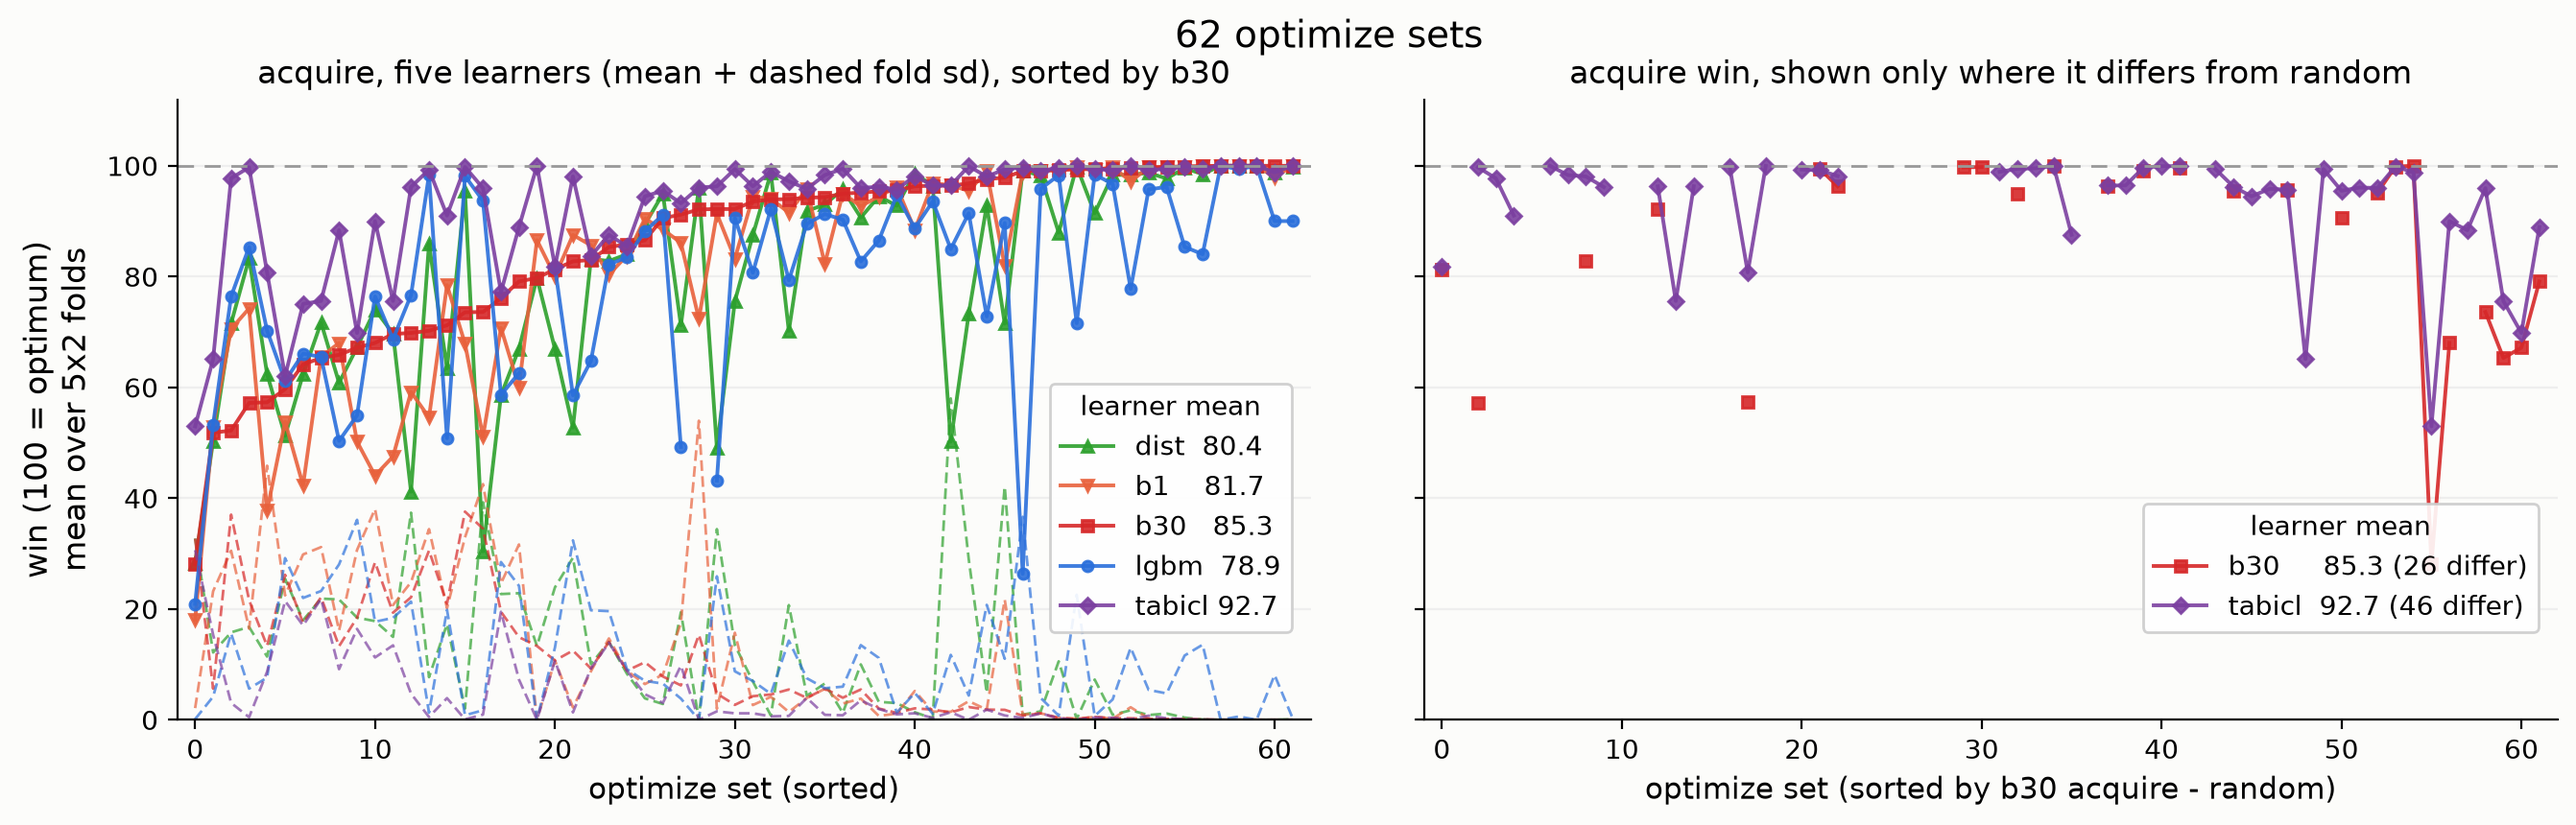
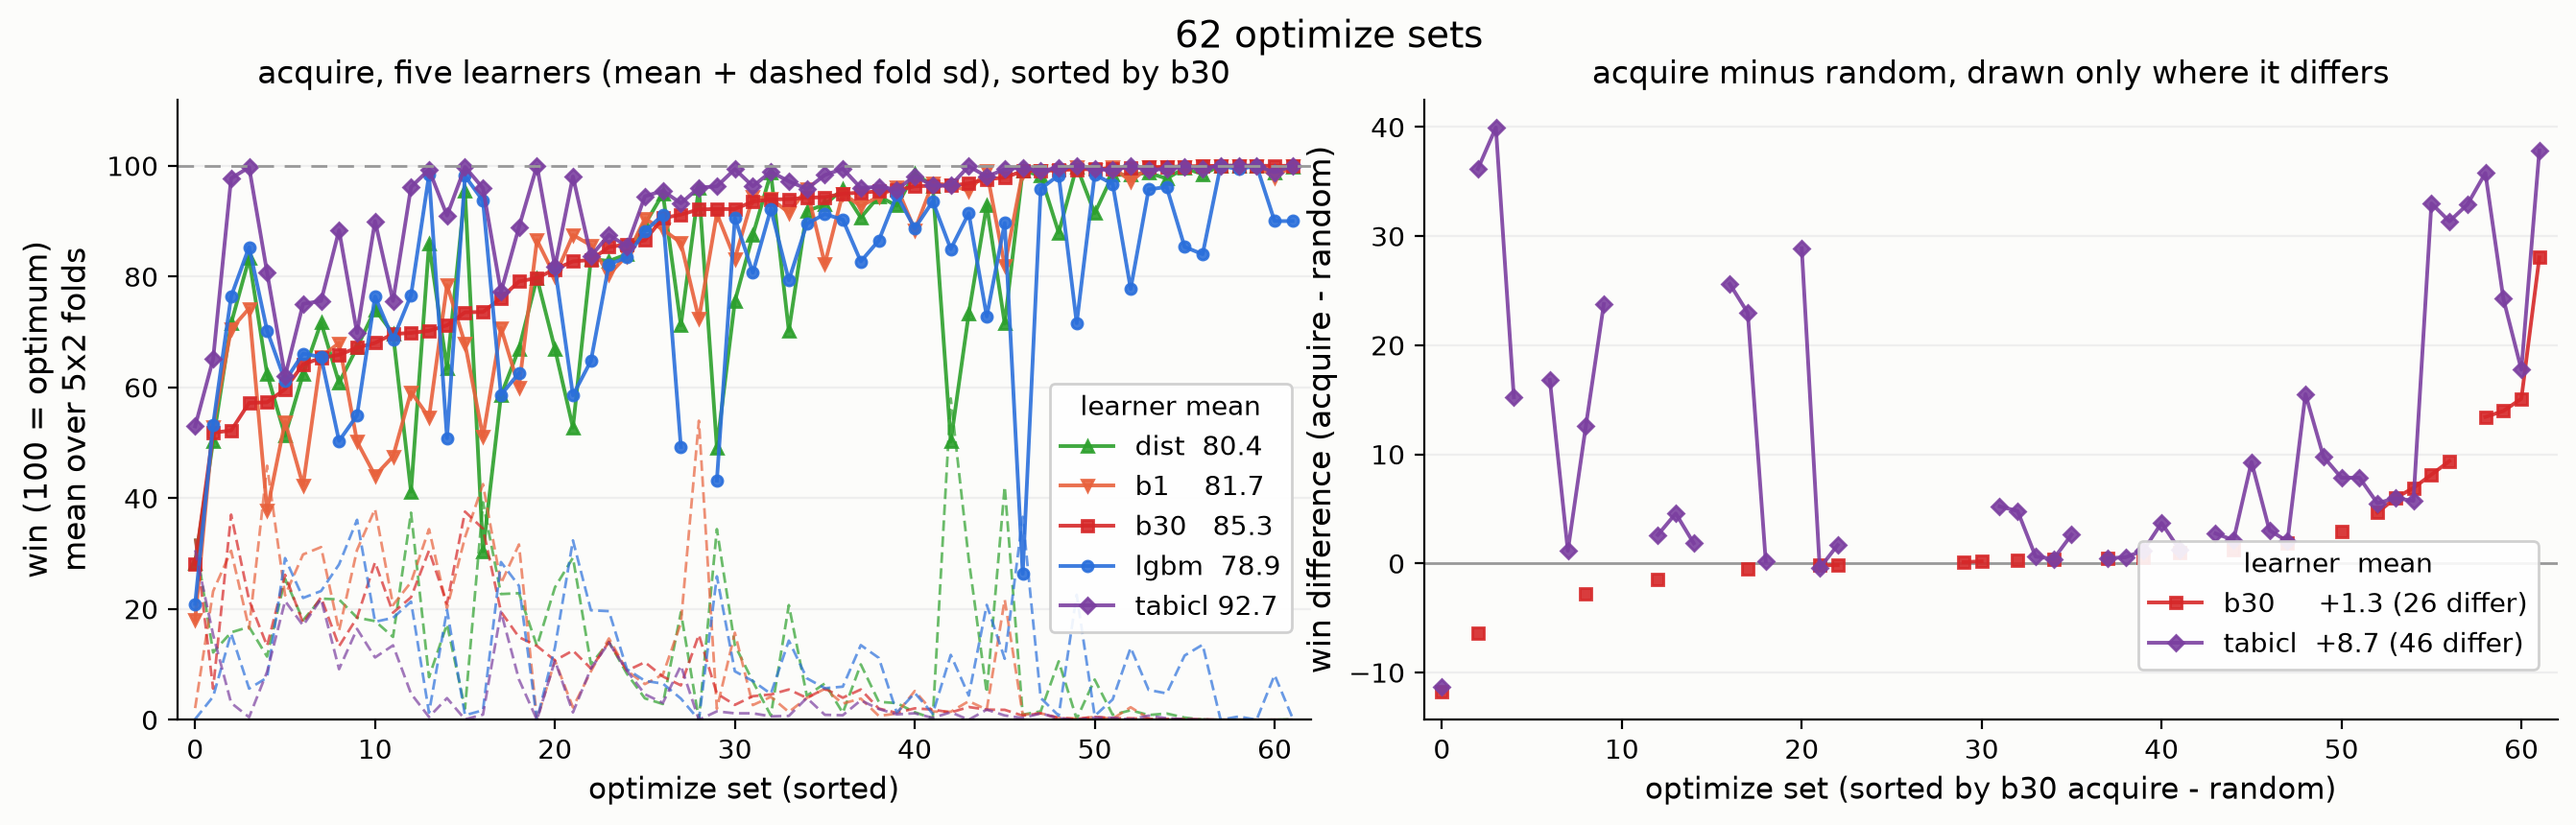
active figure: RHS back to delta form, two lines (b30+tabicl), gaps where tied to random

diff --git a/active_plot.py b/active_plot.py
@@ -85,35 +85,36 @@ ax.grid(axis="y", color="#eee")
 ax.set_ylabel("win (100 = optimum)\nmean over 5x2 folds", fontsize=12)
 ax.set_xlabel("optimize set (sorted)", fontsize=11)
 
-# -- right: b30 & tabicl acquire, only where they beat random (r.b30) ---
+# -- right: b30 & tabicl acquire minus random, gaps where tied ----------
 bx = fig.add_subplot(gs[1])
 gap = {s: mu.get((s, "a.b30"), 0) - mu.get((s, "r.b30"), 0) for s in sets}
 order2 = sorted(sets, key=gap.get)
 x2 = np.arange(len(order2))
-def diffline(arm):                                 # win, masked where tied
+def deltaline(arm):                                # a.arm - r.b30, nan if tied
   out = []
   for s in order2:
     k, rk = (s, arm), (s, "r.b30")
     if k in F and rk in F and not same(F[k], F[rk]):
-      out.append(mu[k])
+      out.append(mu[k] - mu[rk])
     else:
       out.append(np.nan)
   return out
+bx.axhline(0, color="#999", lw=1)
 for arm, c, m, lab in (("a.b30", "#d62728", "s", "b30"),
                        ("a.tabicl", "#7b3fa0", "D", "tabicl")):
   n = sum(1 for s in order2 if (s, arm) in F and (s, "r.b30") in F
           and not same(F[(s, arm)], F[(s, "r.b30")]))
-  bx.plot(x2, diffline(arm), color=c, marker=m, ms=4, lw=1.4, alpha=.9,
-          label="%-7s %4.1f (%d differ)" % (lab, grand[arm], n))
-bx.set_ylim(0, 112); bx.set_xlim(-1, len(order2))
-bx.axhline(100, color="#999", lw=1, ls=(0, (6, 4)))
-bx.set_title("acquire win, shown only where it differs from random",
+  bx.plot(x2, deltaline(arm), color=c, marker=m, ms=4, lw=1.4, alpha=.9,
+          label="%-7s %+4.1f (%d differ)" % (
+          lab, grand[arm] - grand["r.b30"], n))
+bx.set_xlim(-1, len(order2))
+bx.set_title("acquire minus random, drawn only where it differs",
              fontsize=12)
-bx.legend(fontsize=10, loc="lower right", bbox_to_anchor=(.995, .12),
-          framealpha=.9, title="learner mean")
+bx.legend(fontsize=10, loc="lower right", bbox_to_anchor=(.995, .06),
+          framealpha=.9, title="learner  mean")
 bx.grid(axis="y", color="#eee")
 bx.set_xlabel("optimize set (sorted by b30 acquire - random)", fontsize=11)
-bx.set_yticklabels([])
+bx.set_ylabel("win difference (acquire - random)", fontsize=12)
 
 for p in (ax, bx):
   for s_ in ("top", "right"): p.spines[s_].set_visible(False)
